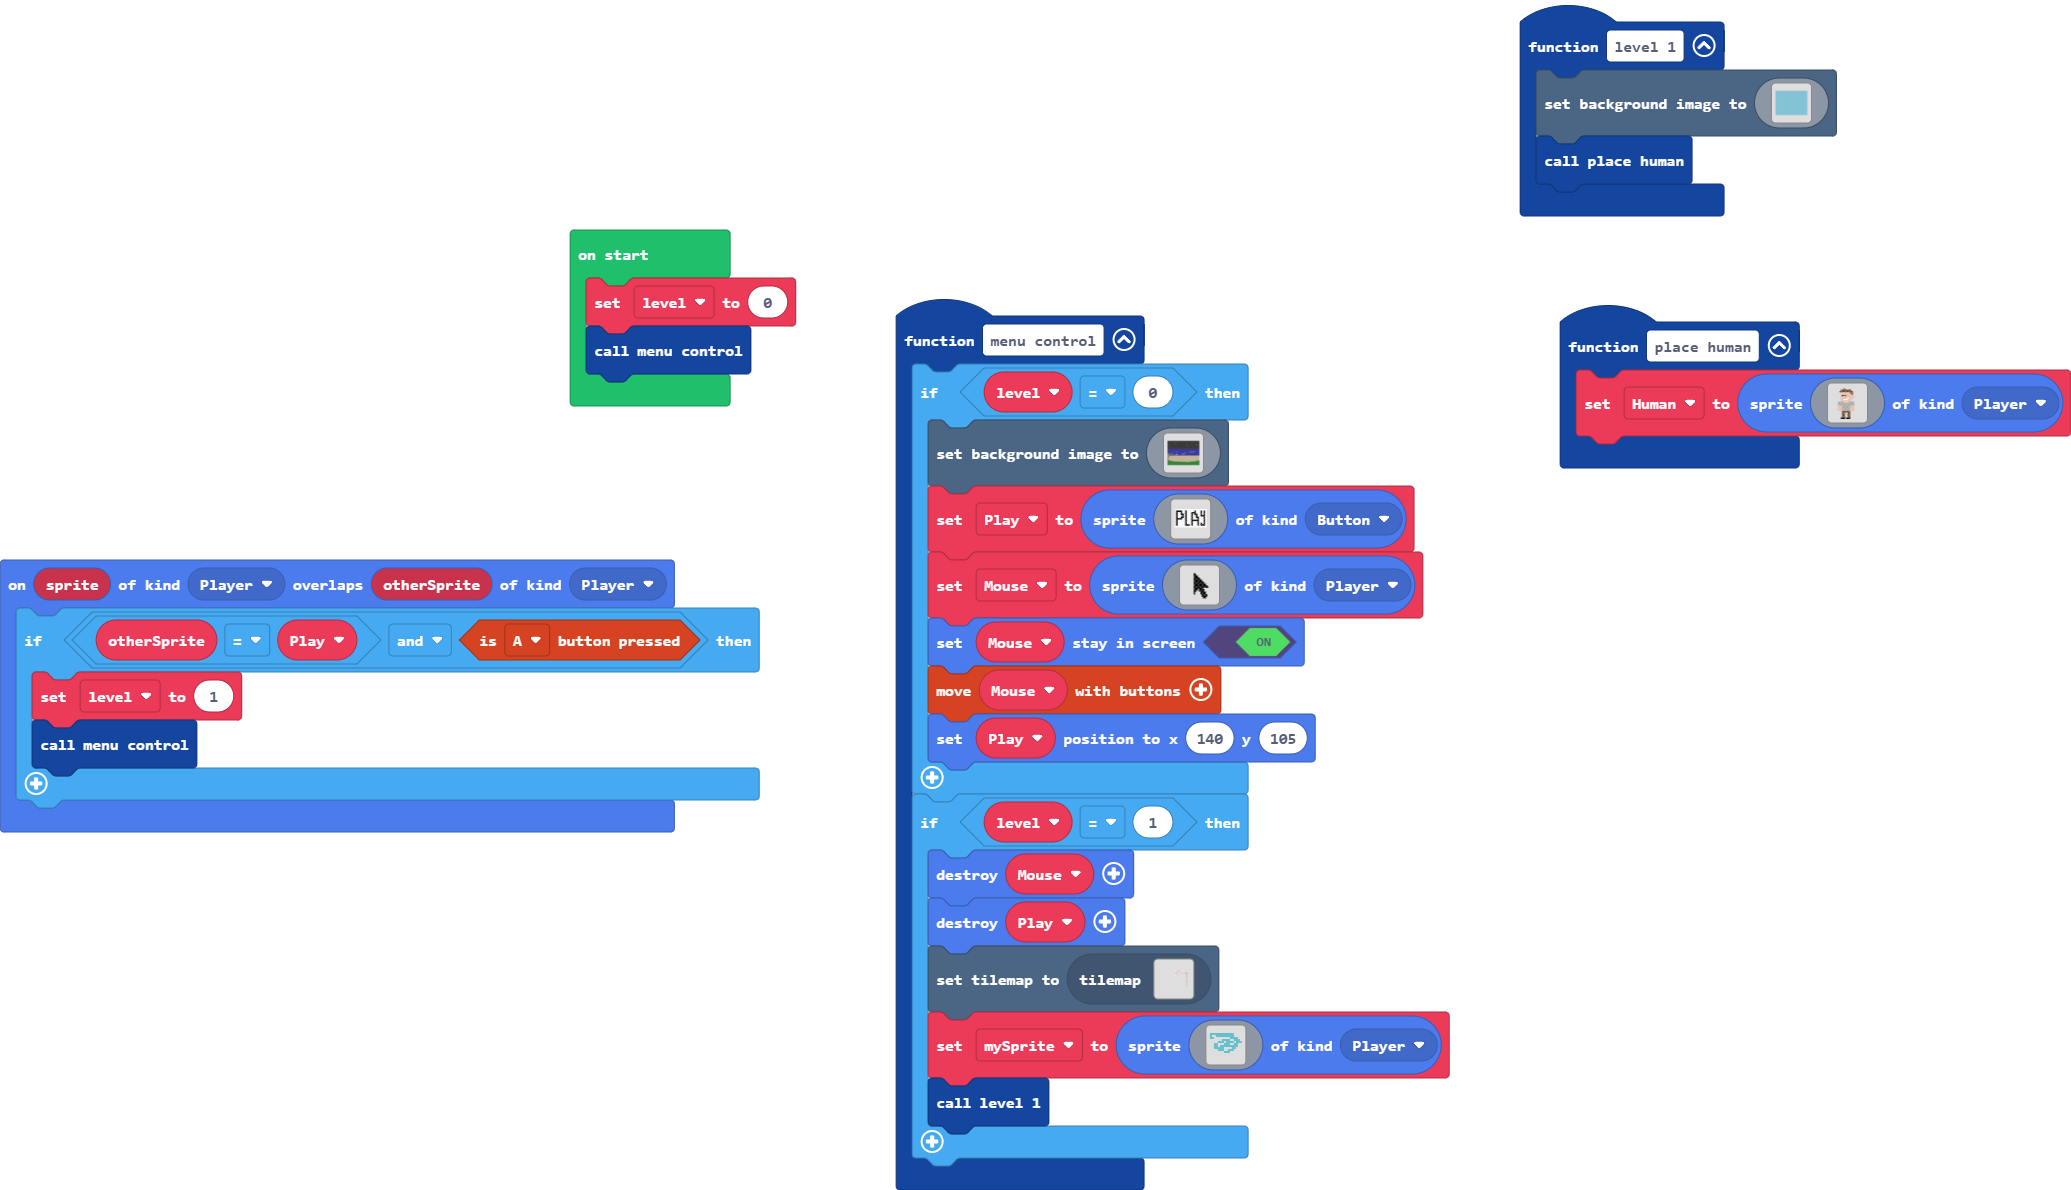
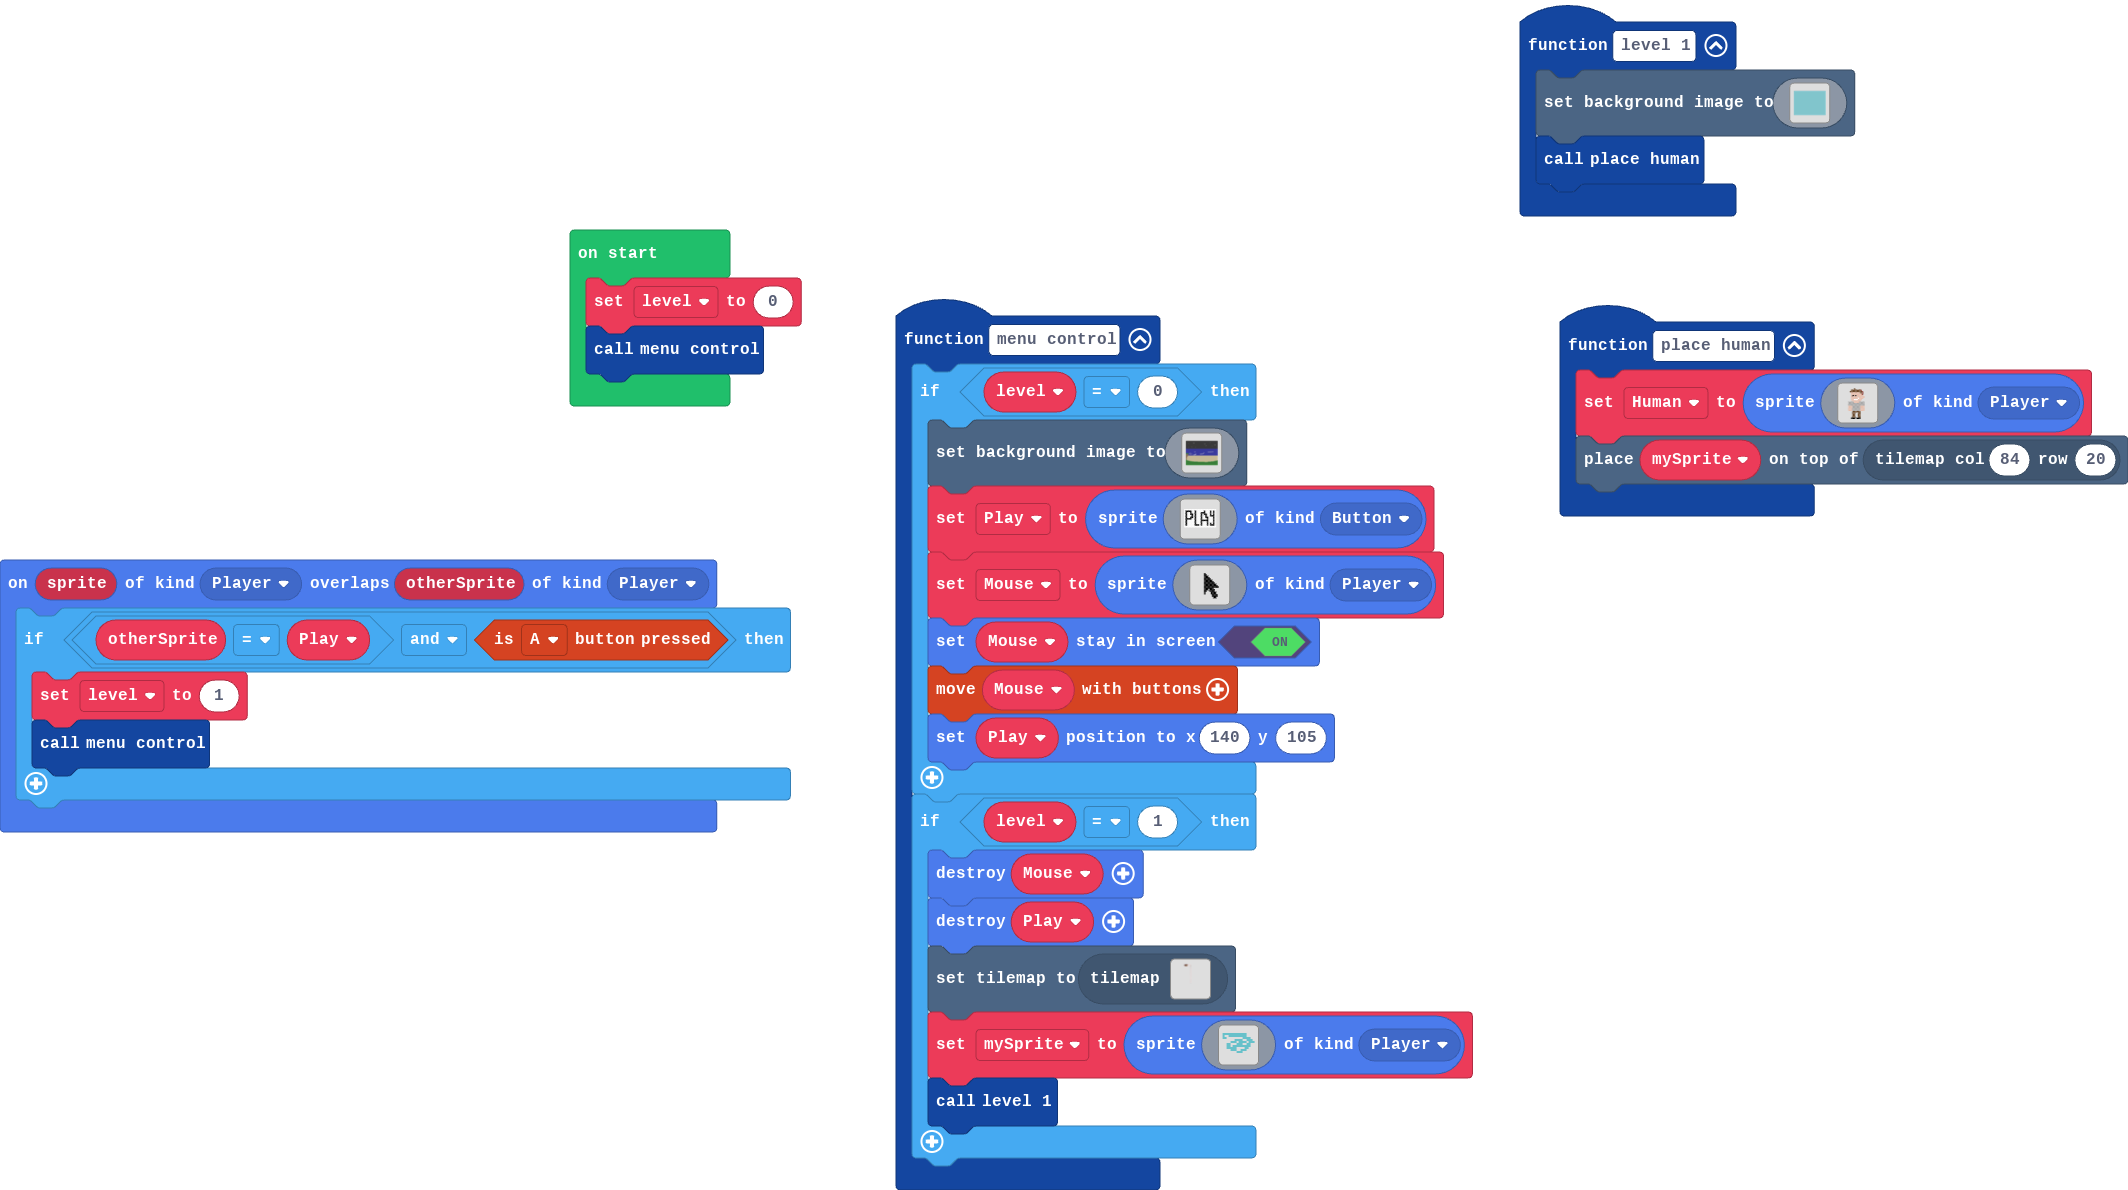
added sprite utensils and placed character on tilemap

diff --git a/main.ts b/main.ts
@@ -28,6 +28,7 @@ function place_human () {
         ........44..44..........
         .......fff.fff..........
         `, SpriteKind.Player)
+    tiles.placeOnTile(mySprite, tiles.getTileLocation(84, 20))
 }
 function level_1 () {
     scene.setBackgroundImage(img`
@@ -357,9 +358,9 @@ sprites.onOverlap(SpriteKind.Player, SpriteKind.Player, function (sprite, otherS
         menu_control()
     }
 })
-let mySprite: Sprite = null
 let Mouse: Sprite = null
 let Play: Sprite = null
+let mySprite: Sprite = null
 let Human: Sprite = null
 let level = 0
 level = 0
